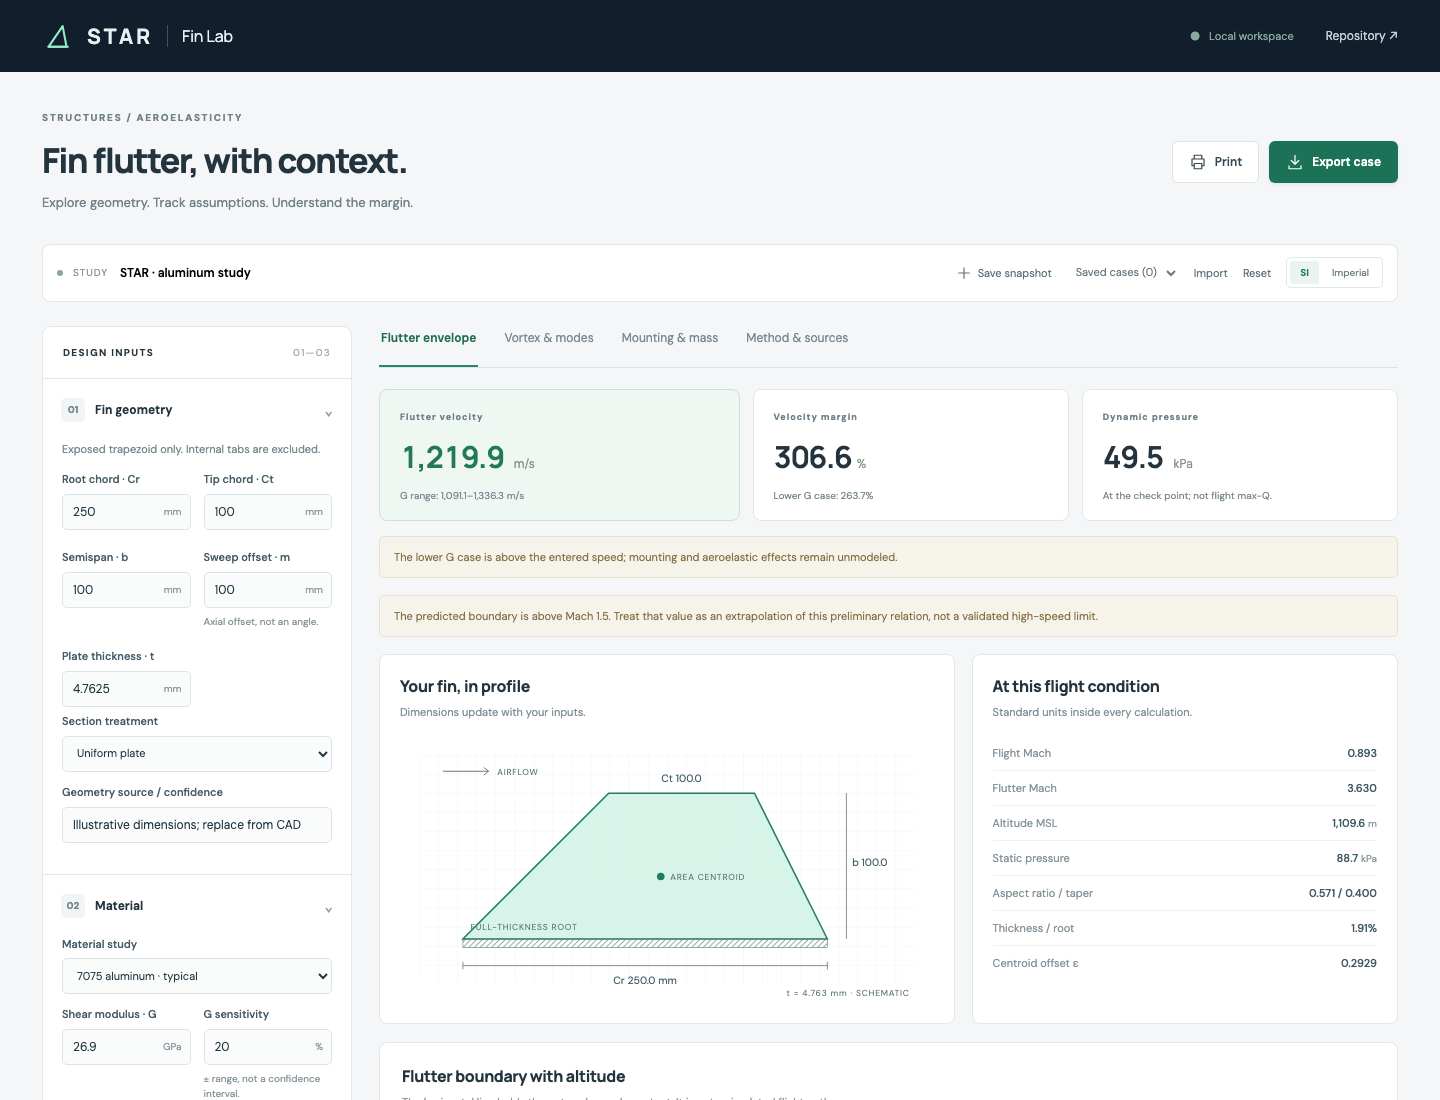
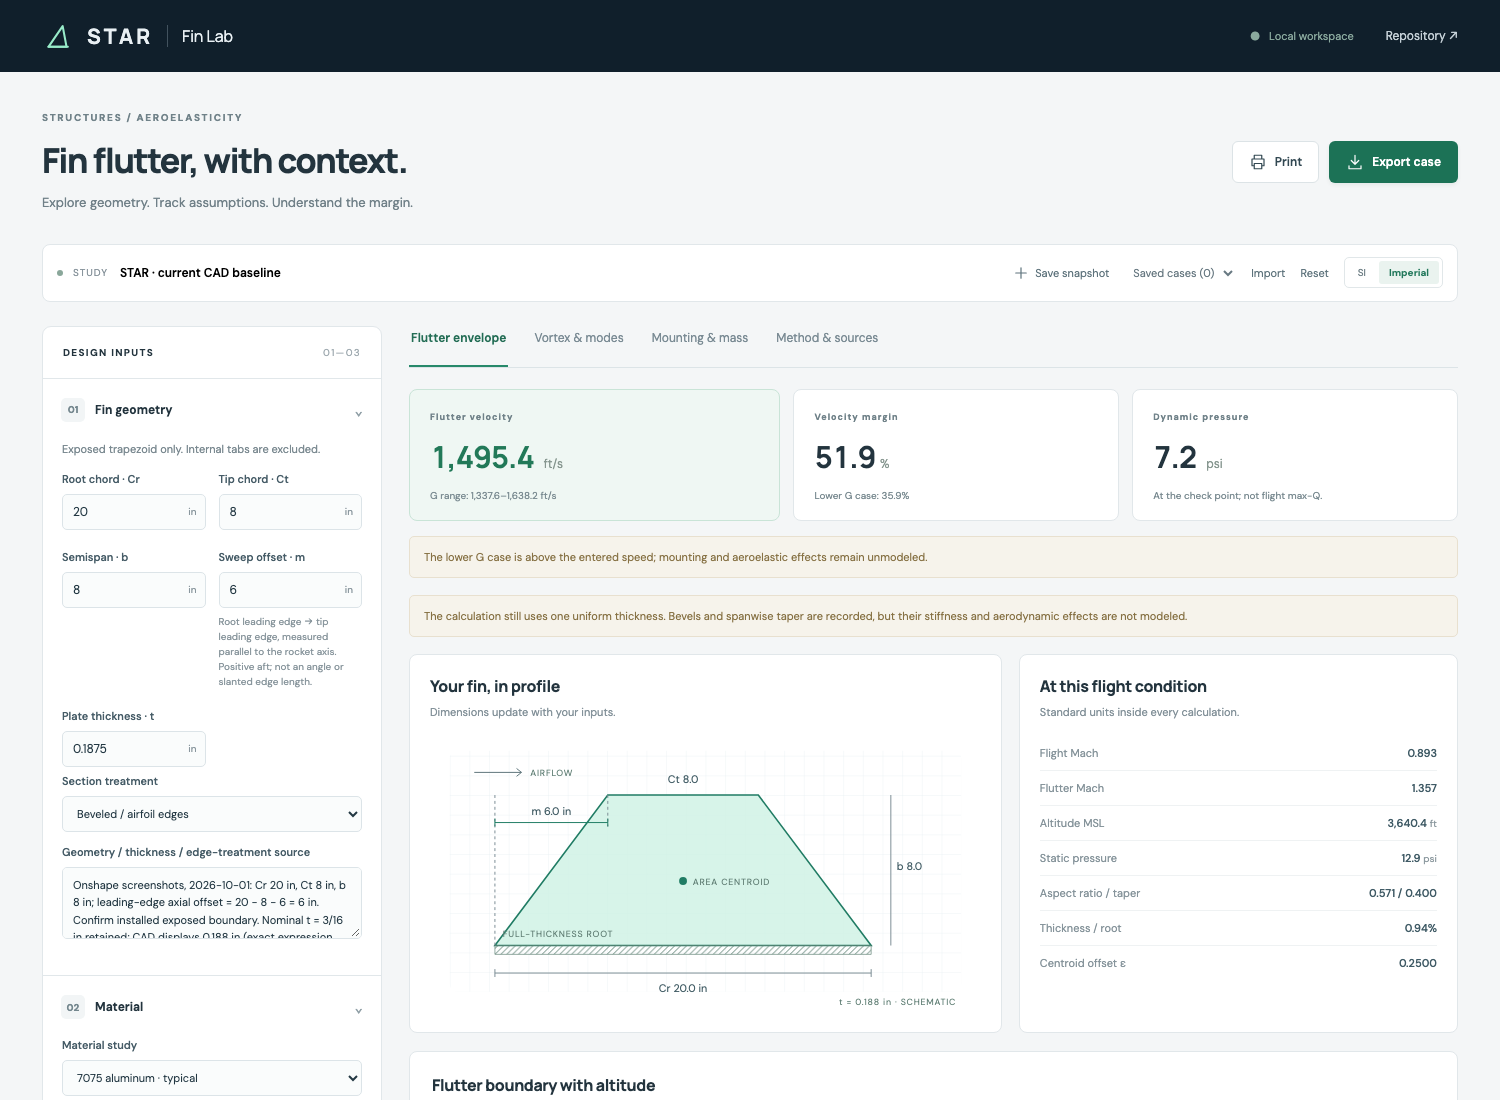
Record current CAD fin baseline and clarify sweep offset

diff --git a/src/app.js b/src/app.js
@@ -121,13 +121,13 @@ function sidebar() {
   return `<aside class="sidebar"><div class="section-label">DESIGN INPUTS <span>01—03</span></div>
     <details open><summary><span class="step">01</span> Fin geometry</summary><div class="detail-body">
       <p class="hint">Exposed trapezoid only. Internal tabs are excluded.</p>
-      <div class="field-grid">${input("root", "Root chord · Cr")}${input("tip", "Tip chord · Ct")}${input("span", "Semispan · b")}${input("sweep", "Sweep offset · m", "Axial offset, not an angle.")}${input("thickness", "Plate thickness · t")}</div>
+      <div class="field-grid">${input("root", "Root chord · Cr")}${input("tip", "Tip chord · Ct")}${input("span", "Semispan · b")}${input("sweep", "Sweep offset · m", "Root leading edge → tip leading edge, measured parallel to the rocket axis. Positive aft; not an angle or slanted edge length.")}${input("thickness", "Plate thickness · t")}</div>
       ${select("profile", "Section treatment", [
         ["uniform", "Uniform plate"],
         ["bevel", "Beveled / airfoil edges"],
         ["taper", "Spanwise thickness taper"],
       ])}
-      ${textInput("geometryBasis", "Geometry source / confidence")}
+      ${textInput("geometryBasis", "Geometry / thickness / edge-treatment source", true)}
     </div></details>
     <details open><summary><span class="step">02</span> Material</summary><div class="detail-body">
       ${select("material", "Material study", [
@@ -170,11 +170,14 @@ function finDrawing() {
   const x = (n) => x0 + n * scale,
     y = (n) => y0 - n * scale;
   const pts = `${x(0)},${y(0)} ${x(r)},${y(0)} ${x(m + t)},${y(b)} ${x(m)},${y(b)}`;
-  return `<svg class="fin-svg" viewBox="0 0 560 280" role="img" aria-label="Live fin planform with root chord, tip chord, semispan and root region">
+  return `<svg class="fin-svg" viewBox="0 0 560 280" role="img" aria-label="Live fin planform with root chord, tip chord, semispan, leading-edge sweep offset and root region">
     <defs><pattern id="grid" width="20" height="20" patternUnits="userSpaceOnUse"><path d="M20 0H0V20" fill="none" stroke="#e5ecef" stroke-width=".7"/></pattern><pattern id="hatch" width="6" height="6" patternUnits="userSpaceOnUse"><path d="M0 6 6 0" stroke="#648679" stroke-width="1"/></pattern></defs>
     <rect x="20" y="15" width="520" height="245" rx="8" fill="url(#grid)"/>
     <path d="M45 37h48m-5-4 5 4-5 4" fill="none" stroke="#5d7479"/><text x="102" y="41" class="svg-note">AIRFLOW</text>
     <polygon points="${pts}" fill="#cdf1e3" fill-opacity=".8" stroke="#207c64" stroke-width="1.6"/>
+    <path d="M${x(0)} ${y0}V${y(b)}M${x(m)} ${y(b)}v32" stroke="#7b8c94" stroke-dasharray="3 3" fill="none"/>
+    <path d="M${x(0)} ${y(b) + 28}H${x(m)}M${x(0)} ${y(b) + 24}v8M${x(m)} ${y(b) + 24}v8" stroke="#207c64" fill="none"/>
+    <text x="${x(m / 2)}" y="${y(b) + 20}" text-anchor="middle" class="svg-label">m ${fmt(m / unit("length")[1], 1)} ${unit("length")[0]}</text>
     <path d="M${x(0)} ${y0}H${x(r)}v9H${x(0)}Z" fill="url(#hatch)" stroke="#648679" stroke-width=".7"/>
     <path d="M${x(0)} ${y0 + 28}H${x(r)}M${x(0)} ${y0 + 24}v8M${x(r)} ${y0 + 24}v8" stroke="#7b8c94"/>
     <text x="${x(r / 2)}" y="${y0 + 47}" text-anchor="middle" class="svg-label">Cr ${fmt(r / unit("length")[1], 1)} ${unit("length")[0]}</text>
@@ -413,7 +416,7 @@ function mountingView() {
 function methodsView() {
   return `<div class="view-intro"><span class="eyebrow">TRANSPARENT BY DESIGN</span><h2>Know what the number includes.</h2><p>A preliminary plate-flutter estimate, with separate tools for flow frequencies and assembly bookkeeping.</p></div>
     ${panel("Bennett / Martin relation", "SI internally: metres, pascals, kilograms and seconds.", `<div class="equation-block">S = (Cr + Ct) b / 2<br/>AR = b² / S &nbsp; · &nbsp; λ = Ct / Cr &nbsp; · &nbsp; τ = t / Cr<br/>Cx = (2 Ct m + Ct² + m Cr + Ct Cr + Cr²) / [3 (Ct + Cr)]<br/>ε = Cx / Cr − ¼ &nbsp; (or explicitly fixed at ¼)<br/>D = (24 ε γ p / π) · AR³ / [τ³ (AR + 2)] · (λ + 1) / 2<br/><strong>Vf = a √(G / D)</strong></div><p>The pressure p is local <b>static</b> pressure, not dynamic pressure q. Air temperature, pressure, density and sound speed use a tropospheric lapse-rate model to 11 km MSL. Local mode anchors that profile to measured station temperature and absolute pressure.</p><p>G ± the chosen percentage produces a sensitivity band. It is not a statistical confidence interval and does not capture model uncertainty.</p>`)}
-    ${panel("Scope and decisions", "The calculation deliberately exposes these omissions.", `<ul class="readable-list"><li>Trapezoidal, uniform-thickness plate; the centroid correction assumes uniform areal density. Triangles use Ct = 0.</li><li>Section bevels, airfoils, spanwise taper and hybrid layups require separate stiffness/aerodynamic treatment.</li><li>Root flexibility, adhesive behavior, struts, slot-wall compliance and fastener slip are not represented by this flutter formula.</li><li>No automatic doubling of G for carbon skins or tip-to-tip reinforcement. A laminate-specific input requires evidence.</li><li>Strouhal matching is a forced-response screen, not a flutter model. Its plotted band is a user-selected tolerance, not a predicted lock-in region.</li><li>The default geometry, flight altitude, speed and G sensitivity are illustrative. The historical V1 SD simulation omitted mass; neither it nor a 7,000-ft apogee fixes the max-speed altitude.</li><li>No universal pass/fail safety factor, rule compliance, launch approval, or strength certification is inferred.</li></ul>`)}
+${panel("Scope and decisions", "The calculation deliberately exposes these omissions.", `<ul class="readable-list"><li>Trapezoidal, uniform-thickness plate; the centroid correction assumes uniform areal density. Triangles use Ct = 0.</li><li>Section bevels, airfoils, spanwise taper and hybrid layups require separate stiffness/aerodynamic treatment.</li><li>Root flexibility, adhesive behavior, struts, slot-wall compliance and fastener slip are not represented by this flutter formula.</li><li>No automatic doubling of G for carbon skins or tip-to-tip reinforcement. A laminate-specific input requires evidence.</li><li>Strouhal matching is a forced-response screen, not a flutter model. Its plotted band is a user-selected tolerance, not a predicted lock-in region.</li><li>The default planform comes from the 2026-10-01 CAD screenshots; confirm the exposed boundary. Nominal 3/16-in thickness is retained, not optimized. Flight altitude, speed and G sensitivity remain illustrative. The historical V1 SD simulation omitted mass; neither it nor a 7,000-ft apogee fixes the max-speed altitude.</li><li>No universal pass/fail safety factor, rule compliance, launch approval, or strength certification is inferred.</li></ul>`)}
     ${panel("Sources & implementation", "Original equations implemented independently; no reference-site UI or source code copied.", `<ol class="sources"><li><a href="https://ntrs.nasa.gov/citations/19930085030" target="_blank" rel="noreferrer">Dennis J. Martin · NACA TN 4197 (1958)</a><p>Preliminary flutter criteria. The Bennett spreadsheet labels this 4917; NASA records the report as 4197.</p></li><li><a href="https://github.com/jkb-git/Fin-Flutter-Velocity-Calculator/tree/ef5e50aeb72df2f19b5b9b08d9269467c83af76c" target="_blank" rel="noreferrer">John K. Bennett · corrected calculator, December 2025</a><p>Pinned source for the centroid-aware formula. Regression tests use the v1.3 workbook example; small atmosphere-constant differences are documented.</p></li><li><a href="https://ntrs.nasa.gov/api/citations/20160011392/downloads/20160011392.pdf" target="_blank" rel="noreferrer">NASA TM-2016-219166 · vortex-induced vibration assessment</a><p>St = fL/U and comparison with structural frequencies. Its strut/hose correlations are not adopted as fin correlations.</p></li><li><a href="https://www.clintonaluminum.com/wp-content/uploads/2014/08/Grade-7075-Text-data.pdf" target="_blank" rel="noreferrer">7075 typical property data</a> · <a href="https://online.kaiseraluminum.com/depot/PublicProductInformation/Document/1017/Kaiser_Aluminum_7075_Sheet_Coil_and_Plate.pdf" target="_blank" rel="noreferrer">Kaiser 7075 density</a><p>7075 starting G = 26.9 GPa; density = 2,800 kg/m³. Presets are screening inputs, not guaranteed stock properties.</p></li><li><a href="https://www.rocketryforum.com/rocket-calculators/fin-flutter/" target="_blank" rel="noreferrer">Rocketry Forum calculator</a><p>Interaction reference. Fin Lab uses the pinned Bennett equation, not a numerical copy of the forum page.</p></li></ol>`)}
   `;
 }
@@ -524,7 +527,7 @@ $("#app").addEventListener("click", (event) => {
         state = { ...DEFAULTS };
         trajectory = [];
         trajectoryName = "";
-        notice = "Reset to illustrative study inputs.";
+        notice = "Loaded current CAD baseline; flight point and material properties remain assumptions. Thickness optimization deferred.";
         break;
       case "clear-trajectory":
         trajectory = [];

diff --git a/tests/physics.test.js b/tests/physics.test.js
@@ -21,6 +21,20 @@ function near(actual, expected, rel = 1e-10) {
   );
 }
 
+test("CAD baseline preserves inch dimensions and nominal thickness without optimization", () => {
+  near(D.root / 0.0254, 20);
+  near(D.tip / 0.0254, 8);
+  near(D.span / 0.0254, 8);
+  near(D.sweep / 0.0254, 6);
+  near((D.root - D.tip - D.sweep) / 0.0254, 6);
+  near(D.sweep + D.tip / 2 - D.root / 2, 0);
+  near(D.thickness / 0.0254, 0.1875);
+  near(geometry(D).aspect, 4 / 7);
+  near(geometry(D).epsilon, 0.25);
+  assert.equal(D.profile, "bevel");
+  assert.match(D.geometryBasis, /optimization deferred/);
+});
+
 test("standard atmosphere reproduces sea-level and 11-km reference values", () => {
   const sea = atmosphereAt({ ...D, launchAltitude: 0 }, 0);
   near(sea.pressure, 101325);
@@ -85,8 +99,8 @@ test("flutter scaling follows sqrt(G) and t^(3/2)", () => {
   near(flutterAt({ ...D, thickness: D.thickness * 2 }).velocity, v * 2 ** 1.5);
 });
 test("geometry is exposed trapezoid; triangular tips are accepted", () => {
-  near(geometry(D).area, 0.0175);
-  near(geometry({ ...D, tip: 0 }).area, 0.0125);
+  near(geometry(D).area, 112 * 0.0254 ** 2);
+  near(geometry({ ...D, tip: 0 }).area, 80 * 0.0254 ** 2);
   assert.throws(() => geometry({ ...D, sweep: -2 }), /ε/);
   assert.throws(() => geometry({ ...D, span: 0 }), /span/);
 });
@@ -154,7 +168,7 @@ test("assembly mass and aft CG include hardware without double counting baseline
     normalCoefficient: 0.5,
     loadArm: 0.05,
   });
-  near(m.finMass, 0.0175 * 0.0047625 * 2800);
+  near(m.finMass, 112 * 0.0254 ** 2 * 0.0047625 * 2800);
   near(m.assemblyMass, 4 * m.finMass + 0.2);
   near(m.cg, (10 + 2 * m.assemblyMass) / (10 + m.assemblyMass));
   near(m.stability, (1.5 - m.cg) / 0.1);
@@ -206,7 +220,7 @@ test("case round trips preserve canonical SI and validate imported enums and tra
     inputs: { ...D, units: "imperial" },
     trajectory: [],
   });
-  assert.equal(c.inputs.root, 0.25);
+  assert.equal(c.inputs.root, 0.508);
   assert.throws(() => loadCase({ version: 2, inputs: D }));
   assert.throws(() =>
     loadCase({ version: 1, inputs: { ...D, units: "meters" } }),

diff --git a/src/physics.js b/src/physics.js
@@ -7,13 +7,14 @@ const R = 287.05287,
   GRAVITY = 9.80665;
 
 export const DEFAULTS = Object.freeze({
-  name: "STAR · aluminum study",
+  name: "STAR · current CAD baseline",
   units: "si",
-  geometryBasis: "Illustrative dimensions; replace from CAD",
-  root: 0.25,
-  tip: 0.1,
-  span: 0.1,
-  sweep: 0.1,
+  geometryBasis:
+    "Onshape screenshots, 2026-10-01: Cr 20 in, Ct 8 in, b 8 in; leading-edge axial offset = 20 − 8 − 6 = 6 in. Confirm installed exposed boundary. Nominal t = 3/16 in retained; CAD displays 0.188 in (exact expression unverified). Chamfer: 0.1 in offset, 30°; face directions/residual edge thickness unverified. Thickness optimization deferred.",
+  root: 0.508,
+  tip: 0.2032,
+  span: 0.2032,
+  sweep: 0.1524,
   thickness: 0.0047625,
   material: "al7075",
   shear: 26.9e9,
@@ -22,7 +23,7 @@ export const DEFAULTS = Object.freeze({
   materialBasis:
     "Typical 7075 screening value; verify stock, temper and supplier data",
   method: "bennett",
-  profile: "uniform",
+  profile: "bevel",
   mount: "slot",
   mountNotes:
     "Slot + epoxy fillets; root stiffness and internal support remain to be measured. Full-thickness load-transfer region.",

diff --git a/tests/browser/app.spec.js b/tests/browser/app.spec.js
@@ -6,6 +6,10 @@ test("point calculation responds, units round trip, independent screens work", a
   const errors = [];
   page.on("pageerror", (e) => errors.push(e.message));
   await page.goto("/");
+  await expect(page.locator("#root")).toHaveValue("508");
+  await expect(page.locator("#sweep")).toHaveValue("152.4");
+  await expect(page.locator("#sweep-help")).toContainText("Root leading edge");
+  await expect(page.locator(".fin-svg")).toContainText("m 152.4 mm");
   await expect(
     page.getByRole("heading", { name: "Fin flutter, with context." }),
   ).toBeVisible();

diff --git a/docs/CAD_BASELINE.md b/docs/CAD_BASELINE.md
@@ -1,0 +1,37 @@
+# Current fin CAD baseline — 2026-10-01
+
+Status: **recorded geometry; thickness optimization deferred; not a flight release**.
+
+Source: user-provided Onshape screenshots named `Screenshot 2026-10-01 at 21.42.14.png` (sketch), `21.42.24.png` (chamfer), and `21.42.35.png` (extrusion). Screenshots are not redistributed in this repository.
+
+| Parameter | Imperial | SI | Evidence / status |
+| --- | ---: | ---: | --- |
+| Root chord, Cr | 20 in | 508 mm | Sketch dimension |
+| Tip chord, Ct | 8 in | 203.2 mm | Sketch dimension |
+| Semispan, b | 8 in | 203.2 mm | Sketch dimension; verify exposed span after installation |
+| Tip trailing-edge setback from root trailing edge | 6 in | 152.4 mm | Sketch dimension |
+| Leading-edge sweep offset, m | 6 in | 152.4 mm | Derived: 20 − 8 − 6 |
+| Nominal plate thickness used by app | 0.1875 in (3/16) | 4.7625 mm | Prior design direction retained; not optimized |
+| Displayed extrusion depth | 0.188 in | 4.7752 mm if literal | Screenshot display; exact expression not visible; symmetric checked |
+| Chamfer offset | 0.1 in | 2.54 mm | Distance-and-angle operation shown |
+| Chamfer angle | 30° | 30° | Face directions and residual edge thickness need CAD verification |
+
+The displayed 0.188 in may be a rounded representation of 0.1875 in. Do not treat their difference as a confirmed design revision. Alloy/temper is not established by these screenshots: the app retains the prior 7075 study assumption and typical, unverified material properties.
+
+## Sweep convention
+
+`m` is the axial distance from the root leading edge to the tip leading edge, positive aft. It is not the sloping edge length, a span, or a sweep angle. Coordinates `(axial, span)` in inches are `(0,0), (20,0), (14,8), (6,8)`.
+
+- Leading-edge angle relative to the spanwise direction: atan(6/8) ≈ 36.87°.
+- Half-chord offset: 6 + 8/2 − 20/2 = 0 in; half-chord sweep = 0°.
+- Sloping leading/trailing edge length: sqrt(6² + 8²) = 10 in.
+- One-fin planform area: (20 + 8) × 8 / 2 = 112 in².
+- Taper ratio: 0.4; one-fin aspect ratio b²/S: 4/7 ≈ 0.5714.
+
+These geometric checks do not establish flutter safety. The existing plate model does not resolve bevels, epoxy fillets, struts, slot compliance, hardware, or laminate stiffness. The installed root/exposed boundary must be checked before interpreting any result. No new thickness search has been performed.
+
+## Flight comparison caution
+
+The separate calculator screenshot uses 7,000 ft as its evaluation altitude. This project's 7,000-ft value is an apogee target, not a verified altitude at maximum airspeed. Compare calculators only with matched speed/altitude, altitude datum, atmosphere, thickness, shear modulus and equation settings. A displayed margin is not a structural certification.
+
+Existing saved snapshots are not overwritten. Use Reset to load this baseline, or enter the dimensions in an existing study and update its source notes.

diff --git a/README.md b/README.md
@@ -27,9 +27,9 @@ The app has no backend or account requirement. Inputs stay in browser memory; sa
 
 ## Use the calculator
 
-1. Replace the **illustrative** exposed trapezoid dimensions with CAD values. Root chord excludes the internal tab; semispan begins at the airframe outer surface. Sweep is an axial offset, not an angle.
+1. Start from the [current CAD baseline](docs/CAD_BASELINE.md): 20 in root, 8 in tip, 8 in semispan and 6 in leading-edge sweep offset. Confirm the outline matches the installed **exposed** fin: root chord excludes internal tabs and semispan begins at the airframe outer surface. Sweep is measured parallel to the rocket axis, not along the slanted edge. Nominal 3/16 in thickness is retained; optimization is deferred.
 2. Supply a sourced **shear modulus**, not Young's modulus. SI inputs use mm and GPa; imperial inputs use inches and Msi. Units convert without changing canonical SI data.
-3. Enter airspeed and its corresponding AGL altitude, plus launch elevation MSL. Apogee is context, not the altitude at maximum speed. The 2,000-ft site assumption and 7,000-ft apogee target come from the project discussion; remaining default geometry and flight-point values are demonstrations, not released LE4 parameters.
+3. Enter airspeed and its corresponding AGL altitude, plus launch elevation MSL. Apogee is context, not the altitude at maximum speed. The 2,000-ft site assumption and 7,000-ft apogee target come from the project discussion; default flight-point values remain demonstrations, not released LE4 parameters. Do not use the apogee as the check altitude unless the speed being evaluated actually occurs there.
 4. Review nominal and lower/upper-G flutter estimates. A sensitivity percentage is not statistical confidence or a bound on all model errors.
 5. Import a trajectory to find the minimum **sampled** lower-G velocity margin. All imported rows use paired speed/altitude. No interpolation or flight dynamics simulation is performed.
 6. In **Vortex & modes**, enter a geometry/flow-specific f-based Strouhal correlation and assembly modal frequencies. Do not infer these modes from the flutter formula. A frequency-band crossing is not a failure or flutter prediction.
